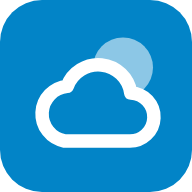
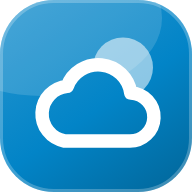
Add files via upload

diff --git a/index.html b/index.html
@@ -9,9 +9,9 @@
 <script>(function(){var t="light";try{var p=JSON.parse(localStorage.getItem("wx.prefs")||"{}");if(p&&p.theme==="dark")t="dark"}catch(e){}document.documentElement.setAttribute("data-theme",t)})();</script>
 <meta name="referrer" content="strict-origin-when-cross-origin">
 <link rel="manifest" href="manifest.json">
-<link rel="icon" href="favicon.ico" sizes="48x48">
-<link rel="icon" href="favicon.svg" type="image/svg+xml">
-<link rel="apple-touch-icon" href="apple-touch-icon.png">
+<link rel="icon" href="favicon.ico?v=2" sizes="48x48">
+<link rel="icon" href="favicon.svg?v=2" type="image/svg+xml">
+<link rel="apple-touch-icon" href="apple-touch-icon.png?v=2">
 <meta name="apple-mobile-web-app-capable" content="yes">
 <meta name="mobile-web-app-capable" content="yes">
 <meta name="apple-mobile-web-app-title" content="Weather">
@@ -22,7 +22,7 @@
 <meta property="og:title" content="mbweather.online: weather that tells you what to do">
 <meta property="og:description" content="Free forecast, radar and alerts with a rain countdown and an outdoor score. No account, no ads, no tracking.">
 <meta property="og:url" content="https://mbweather.online/">
-<meta property="og:image" content="https://mbweather.online/og-image.png">
+<meta property="og:image" content="https://mbweather.online/og-image.png?v=2">
 <meta property="og:image:type" content="image/png">
 <meta property="og:image:width" content="1200">
 <meta property="og:image:height" content="630">
@@ -30,7 +30,7 @@
 <meta name="twitter:card" content="summary_large_image">
 <meta name="twitter:title" content="mbweather.online: weather that tells you what to do">
 <meta name="twitter:description" content="Free forecast, radar and alerts with a rain countdown and an outdoor score. No account, no ads, no tracking.">
-<meta name="twitter:image" content="https://mbweather.online/og-image.png">
+<meta name="twitter:image" content="https://mbweather.online/og-image.png?v=2">
 <meta name="twitter:image:alt" content="mbweather.online: weather that tells you what to do.">
 <style>
 /* Layout: dense field dashboard. Search bar, sky hero, sticky section nav, then work windows, hourly table, charts, atmosphere, field/soil, 10-day, sun/moon. */
@@ -827,6 +827,130 @@ body{padding-left:0;padding-right:0}
 .top .in{max-width:var(--page-max);padding-left:max(var(--gutter),env(safe-area-inset-left));padding-right:max(var(--gutter),env(safe-area-inset-right))}
 
 </style>
+<style id="mb-suite-cutouts">
+/* =====================================================================
+   MB SUITE v2 · PAPER CUTOUTS surface layer
+   Additive and accent-driven. Load LAST in <head>: after mb-suite-core.css,
+   mb-suite-appbar.css and the app's adapter. Never edit core to get this look.
+   Changes SURFACE only: gradients, page wash, cutout art. Geometry (6/4/8px),
+   layout, density, type, components, motion and behavior stay MB Suite v1.
+   Per-app tweaks go in adapters/<app>-cutouts.css, not here.
+   ===================================================================== */
+
+/* ---- art + gradient tokens (all derived from --accent; no per-app hex) ---- */
+:root{
+  --cut-deep:var(--accent);
+  --cut-mid:color-mix(in srgb,var(--accent) 52%,#fff);
+  --cut-soft:color-mix(in srgb,var(--accent) 24%,#fff);
+  --cut-near:color-mix(in srgb,var(--accent) 62%,#0aa6b8);      /* neighbor hue; upgraded below where supported */
+  --cut-butter:#FFD98A;
+  --cut-blush:#F7B8A8;
+  --wash-top:color-mix(in srgb,var(--accent) 7%,#fff);
+  --wash-mid:color-mix(in srgb,var(--accent) 4%,var(--bg));
+  --g-line:linear-gradient(90deg,var(--accent),var(--cut-mid) 55%,var(--cut-butter));
+  --g-underline:linear-gradient(90deg,var(--accent),var(--cut-mid));
+  --g-pri:linear-gradient(135deg,var(--accent),var(--accent-hover));
+  --g-bar:linear-gradient(90deg,var(--accent),var(--cut-mid));
+  --g-tile:linear-gradient(135deg,color-mix(in srgb,var(--accent) 11%,var(--surface)),var(--surface) 65%);
+}
+@supports (color:oklch(from red l c h)){
+  :root{--cut-near:oklch(from var(--accent) calc(l + .04) c calc(h + 34))}
+}
+:root[data-theme="dark"],:root.dark{
+  --cut-mid:color-mix(in srgb,var(--accent) 60%,var(--surface));
+  --cut-soft:color-mix(in srgb,var(--accent) 30%,var(--surface));
+  --cut-near:color-mix(in srgb,var(--accent) 62%,#0aa6b8);
+  --cut-butter:#D9B363;
+  --cut-blush:#C98C80;
+  --wash-top:color-mix(in srgb,var(--accent) 16%,var(--bg));
+  --wash-mid:color-mix(in srgb,var(--accent) 7%,var(--bg));
+}
+@supports (color:oklch(from red l c h)){
+  :root[data-theme="dark"],:root.dark{--cut-near:oklch(from var(--accent) calc(l - .06) c calc(h + 34))}
+}
+
+/* ---- page wash: accent-derived, fades into the neutral page by ~680px ---- */
+html{background:linear-gradient(180deg,var(--wash-top) 0,var(--wash-mid) 420px,var(--bg) 680px) no-repeat,var(--bg)}
+body{background:none}
+
+/* ---- app bar: gradient accent line + gradient underline on the current tab ---- */
+.top,.app-bar{box-shadow:var(--shadow)!important}
+.top::before,.app-bar::before{content:"";position:absolute;left:0;right:0;top:0;height:3px;background:var(--g-line);pointer-events:none;z-index:1}
+.tabs button[aria-current="page"],nav.tabs button[aria-current="page"],
+:root[data-theme="dark"] nav.tabs button[aria-current="page"]{box-shadow:none!important;background:var(--g-underline) bottom/100% 2px no-repeat!important}
+.bnav button[aria-current="page"]{box-shadow:none!important;background:var(--g-underline) top/100% 2px no-repeat!important}
+
+/* ---- gradient is allowed ONLY here (everything else stays flat v1) ----
+   primary buttons, progress/bar fills, the hero stat tile, the banner, the page wash, the accent line.
+   Map the app's own selectors in adapters/<app>-cutouts.css; these are the common ones. */
+:is(.btn.primary,.btn.pri,.btn-primary,button.primary,.primary-btn){background:var(--g-pri)!important;border-color:transparent!important;color:var(--accent-ink)!important}
+.cu-hero{background:var(--g-tile)}
+.cu-bar{background:var(--g-bar)!important}                 /* use on the fill element of a progress/bar */
+
+/* ---- banner ---- */
+.cu-banner{position:relative;overflow:hidden;min-height:128px;margin:0 0 var(--sp-4);padding:22px 24px;border-radius:var(--r-lg);
+  border:1px solid color-mix(in srgb,var(--accent) 16%,transparent);box-shadow:var(--shadow);
+  background:linear-gradient(105deg,color-mix(in srgb,var(--accent) 3%,var(--surface)) 0%,color-mix(in srgb,var(--accent) 9%,var(--surface)) 60%,
+    color-mix(in srgb,var(--cut-butter) 22%,color-mix(in srgb,var(--accent) 5%,var(--surface))) 100%)}
+.cu-banner.slim{min-height:72px;padding:16px 24px}
+.cu-banner .cu-txt{position:relative;z-index:1}
+.cu-banner.slim .cu-art:not(.at-bottom):not(.at-top){max-width:58%}
+.cu-banner .cu-t{margin:0;font-size:var(--fs-h2);font-weight:650;letter-spacing:-.015em;color:var(--ink)}
+.cu-banner .cu-s{margin:4px 0 0;font-size:13.5px;color:var(--ink-2)}
+
+/* ---- art: roles (never hardcode hexes; recolor by role class or palette class) ---- */
+.cu-art{position:absolute;right:0;top:0;height:100%;width:auto;max-width:75%;pointer-events:none}
+.cu-art .d{fill:var(--cu-d,var(--cut-deep))}
+.cu-art .m{fill:var(--cu-m,var(--cut-mid))}
+.cu-art .s{fill:var(--cu-s,var(--cut-soft))}
+.cu-art .n{fill:var(--cu-n,var(--cut-near))}
+.cu-art .b{fill:var(--cu-b,var(--cut-butter))}
+.cu-art .r{fill:var(--cu-r,var(--cut-blush))}
+.cu-art .sd{fill:none;stroke:var(--cu-d,var(--cut-deep));stroke-width:3;stroke-linecap:round;stroke-linejoin:round}
+.cu-art .sm{fill:none;stroke:var(--cu-m,var(--cut-mid));stroke-width:3;stroke-linecap:round;stroke-linejoin:round}
+
+/* ---- palettes: put on the svg or any ancestor ---- */
+.cu-p-mono{--cu-n:color-mix(in srgb,var(--accent) 78%,#000);--cu-b:color-mix(in srgb,var(--accent) 14%,var(--surface));--cu-r:color-mix(in srgb,var(--accent) 38%,var(--surface))}
+.cu-p-soft{--cu-d:var(--cut-mid);--cu-m:var(--cut-soft);--cu-s:color-mix(in srgb,var(--accent) 12%,var(--surface));
+  --cu-n:color-mix(in srgb,var(--cut-near) 45%,var(--surface));--cu-b:color-mix(in srgb,var(--cut-butter) 70%,var(--surface));--cu-r:color-mix(in srgb,var(--cut-blush) 70%,var(--surface))}
+.cu-p-bold{--cu-d:var(--accent-hover);--cu-m:var(--accent);--cu-s:var(--cut-mid)}
+
+/* ---- placement / size / modifiers (all optional; size with --cu-w or height) ---- */
+.cu-art.at-right{right:0;left:auto;top:0}
+.cu-art.at-left{left:0;right:auto;top:0}
+.cu-art.at-top{left:0;right:0;top:0;width:100%;height:auto;max-width:none}
+.cu-art.at-bottom{left:0;right:0;top:auto;bottom:0;width:100%;height:auto;max-width:none}
+.cu-art.at-corner{top:0;right:0;height:auto;width:var(--cu-w,220px);max-width:none}
+.cu-art.at-corner-bl{top:auto;right:auto;bottom:0;left:0;height:auto;width:var(--cu-w,220px);max-width:none}
+.cu-art.inline{position:relative;display:block;right:auto;top:auto;margin:0 auto;width:var(--cu-w,100%);max-width:100%;height:auto}
+.cu-art.mirror{transform:scaleX(-1)}
+.cu-art.flip{transform:scaleY(-1)}
+.cu-art.fade{opacity:.35}
+.cu-art.xs{--cu-w:64px}.cu-art.sm{--cu-w:120px}.cu-art.md{--cu-w:220px}.cu-art.lg{--cu-w:340px}
+:root[data-theme="dark"] .cu-art,:root.dark .cu-art{opacity:.85}
+:root[data-theme="dark"] .cu-art.fade,:root.dark .cu-art.fade{opacity:.3}
+
+/* ---- phones + print ---- */
+@media(max-width:600px){
+  .cu-banner{padding:18px 16px;min-height:104px}
+  .cu-banner .cu-art:not(.at-bottom):not(.at-top){max-width:46%}
+}
+@media print{html{background:#fff}.cu-banner,.cu-art{display:none}}
+
+/* =====================================================================
+   MB SUITE v2 · mbweather.online adapter (loads after mb-suite-cutouts.css)
+   Weather keeps its condition-colored sky hero (no home banner). It gets the page wash,
+   the gradient accent line / tab marker, gradient primary buttons and the onboarding progress fill.
+   Its tabs mark the current page with aria-current="true", not "page".
+   ===================================================================== */
+.tabs button[aria-current="true"]{box-shadow:none!important;background:var(--g-underline) bottom/100% 2px no-repeat!important}
+.bnav button[aria-current="true"]{box-shadow:none!important;background:var(--g-underline) top/100% 2px no-repeat!important}
+/* primary buttons: gradient (generic rule), hover feedback, flat disabled state */
+.btn.primary:hover:not([disabled]){filter:brightness(.94)}
+.btn.primary[disabled]{background:var(--surface-2)!important;color:var(--muted)!important;border-color:var(--border)!important;filter:none}
+/* onboarding progress fill */
+.ob-prog i{background:var(--g-bar)}
+</style>
 </head>
 <body>
 <svg width="0" height="0" aria-hidden="true" focusable="false" style="position:absolute;width:0;height:0;overflow:hidden"><defs><radialGradient id="wxSun" cx=".38" cy=".32" r=".8"><stop offset="0" stop-color="#fff2b4"/><stop offset=".55" stop-color="#ffc53f"/><stop offset="1" stop-color="#ff9a28"/></radialGradient><linearGradient id="wxCloud" gradientUnits="userSpaceOnUse" x1="0" y1="10" x2="0" y2="38"><stop offset="0" stop-color="#ffffff"/><stop offset="1" stop-color="#bfd3ec"/></linearGradient><linearGradient id="wxMoon" x1="0" y1="0" x2="1" y2="1"><stop offset="0" stop-color="#fbfcff"/><stop offset="1" stop-color="#b7c6ea"/></linearGradient><linearGradient id="wxBolt" x1="0" y1="0" x2="0" y2="1"><stop offset="0" stop-color="#ffe985"/><stop offset="1" stop-color="#ffab1f"/></linearGradient></defs></svg>
@@ -836,7 +960,7 @@ body{padding-left:0;padding-right:0}
 <input type="file" id="importFile" accept="application/json,.json" hidden>
 <header class="top" id="top">
   <div class="in bar">
-    <h1 class="brand" id="brand"><span class="logo" aria-hidden="true"><svg viewBox="0 0 64 64" aria-hidden="true" focusable="false"><rect width="64" height="64" rx="14" fill="#0284C7"/><circle cx="41" cy="22.5" r="10" fill="#fff" fill-opacity=".55"/><path d="M21.5 47h21.5a8 8 0 0 0 .6-16 11 11 0 0 0-21.2-2.2A9.2 9.2 0 0 0 21.5 47z" fill="#0284C7" stroke="#fff" stroke-width="4.5" stroke-linecap="round" stroke-linejoin="round" /></svg></span><span class="bt"><span class="nm">mbweather<i class="tld">.online</i></span><span class="sub">Official Web App · v1.0</span></span></h1>
+    <h1 class="brand" id="brand"><span class="logo" aria-hidden="true"><svg aria-hidden="true" focusable="false" viewBox="0 0 64 64"><defs><linearGradient id="g1" gradientUnits="userSpaceOnUse" x1="10" y1="0" x2="54" y2="64"><stop offset="0" stop-color="#2595cf"/><stop offset=".55" stop-color="#0284C7"/><stop offset="1" stop-color="#026a9f"/></linearGradient><clipPath id="c1"><rect width="64" height="64" rx="18"/></clipPath></defs><g clip-path="url(#c1)"><rect width="64" height="64" fill="url(#g1)"/><circle cx="41" cy="22.5" r="10" fill="#fff" fill-opacity=".55"/><path d="M21.5 47h21.5a8 8 0 0 0 .6-16 11 11 0 0 0-21.2-2.2A9.2 9.2 0 0 0 21.5 47z" fill="url(#g1)" stroke="#fff" stroke-width="4.5" stroke-linecap="round" stroke-linejoin="round" /></g></svg></span><span class="bt"><span class="nm">mbweather<i class="tld">.online</i></span><span class="sub">Official Web App · v1.1</span></span></h1>
     <div class="search">
       <input id="q" type="search" placeholder="Search a town or ZIP" autocomplete="off" aria-label="Search for a place">
       <ul class="results" id="results" aria-live="polite" hidden></ul>

diff --git a/sw.js b/sw.js
@@ -1,5 +1,5 @@
 // Fixed on purpose: files are fetched network-first and re-cached on every online visit, so no manual bump is needed.
-const VERSION = 'mbweather-v4';
+const VERSION = 'mbweather-v5';
 const SHELL = ['./', 'index.html', 'manifest.json', 'icon-192.png', 'icon-512.png', 'icon-maskable-512.png', 'apple-touch-icon.png', 'favicon.svg', 'favicon.ico',
   'vendor/leaflet.js', 'vendor/leaflet.css', 'vendor/maplibre-gl.js', 'vendor/maplibre-gl.css',
   'vendor/leaflet-maplibre-gl.js', 'vendor/topojson-client.min.js', 'vendor/countries-50m.json', 'vendor/states-10m.json',

diff --git a/RELEASE_NOTES.md b/RELEASE_NOTES.md
@@ -1,5 +1,15 @@
 # mbweather.online release notes
 
+## v1.6 (2026-10-09): Paper Cutouts look
+
+**Look and feel**
+- Lighter, fresher surface (MB Suite v2 "Paper Cutouts"): a soft sky-blue tint across the top of each page, a gradient accent line on the app bar, a gradient tab underline and bottom-bar marker, and gradient primary buttons and onboarding progress. The condition-colored sky hero is unchanged and gets no banner.
+- Layout, features and forecasts are unchanged.
+
+**Brand art**
+- New logo and icons: the same cloud and sun on a softer gradient badge. New `favicon.svg`, `favicon.ico`, `icon-192.png`, `icon-512.png`, `icon-maskable-512.png`, `apple-touch-icon.png` and `og-image.png`. Your settings, places and backups are unchanged.
+- The "Official Web App" label under the name now reads v1.1.
+
 ## v1.5 (2026-10-09): Family look
 
 **Look and feel**
